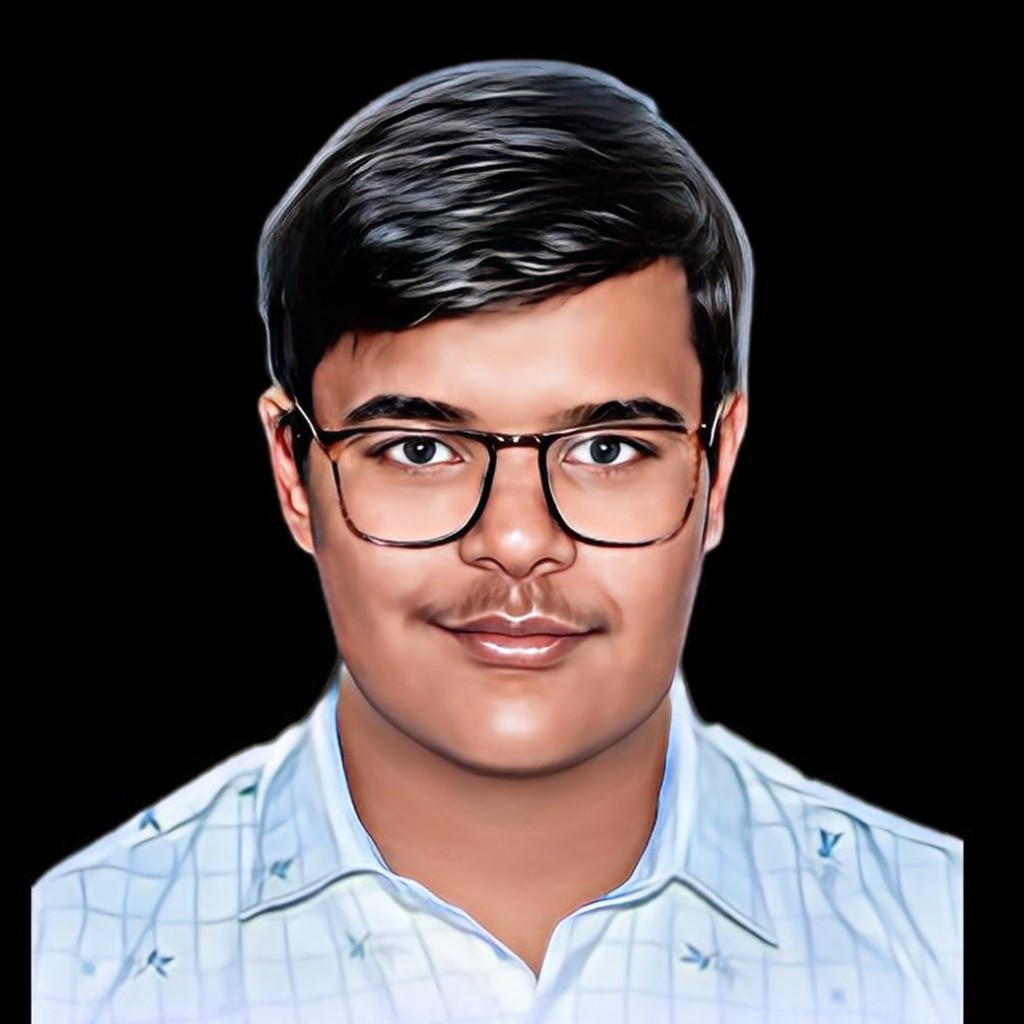
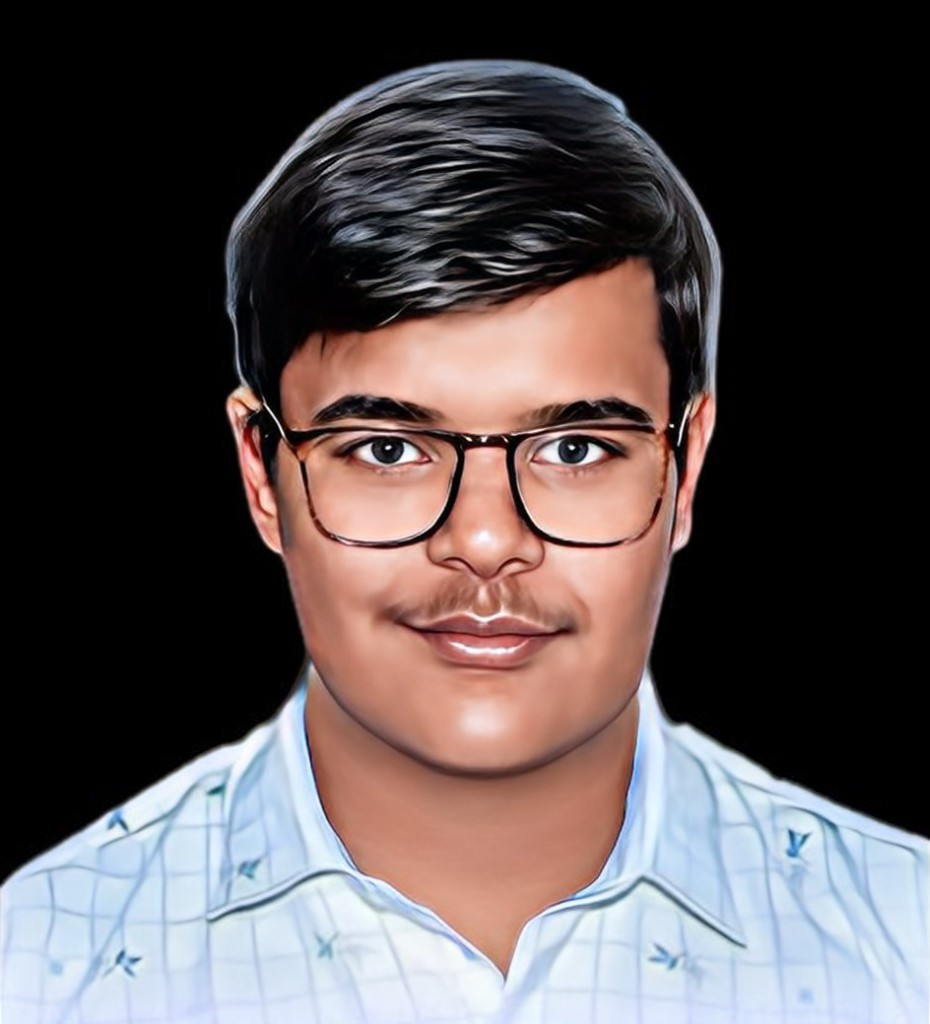
height issue fix

diff --git a/pages/about.vue b/pages/about.vue
@@ -18,16 +18,16 @@
       >
         <!-- Image Here -->
         <div
-          class="w-[350px] h-[450px] border flex items-center justify-center overflow-hidden rounded border-secondary-700"
+          class="w-[350px] h-auto border flex items-center justify-center overflow-hidden rounded-md border-secondary-700"
         >
           <img
-            src="https://source.unsplash.com/random/350x450?man"
+            src="../static/profile-1.jpg"
             alt="No Image Found"
-            class="object-center"
+            class="object-center opacity-50 hover:opacity-90 transition-all duration-700"
           />
         </div>
         <!-- Intro Here -->
-        <div class="md:w-1/2 max-w-md">
+        <div class="md:w-1/2 max-w-md text-center md:text-start">
           <p class="text-orange-400 text-2xl font-semibold">Poojan Bhalodiya</p>
           <p class="font-semibold">Backend Developer</p>
           <p class="mt-5">
@@ -41,7 +41,7 @@
             exploring and mastering the dynamic field of backend technologies.
           </p>
 
-          <div class="mt-5 flex gap-3">
+          <div class="mt-5 flex gap-3 items-center justify-center md:justify-start">
             <button
               @click="$router.push({ path: `/contact` })"
               class="border p-3 border-orange-400 rounded-md hover:ring hover:ring-clay-400 font-semibold"
@@ -60,7 +60,9 @@
       <!-- My Journey -->
       <div class="mt-16 md:mt-20">
         <h2 class="font-semibold text-2xl text-center">My Journey</h2>
-        <div class="flex mt-5 flex-wrap items-center justify-center gap-10">
+        <div
+          class="flex mt-5 flex-wrap items-center justify-center gap-5 md:gap-10"
+        >
           <div v-for="(item, i) in journey" :key="i" class="">
             <div class="flex rounded items-center justify-center gap-2">
               <div
@@ -84,7 +86,7 @@
       <!-- My Intrest -->
       <div class="mt-16 md:mt-20">
         <h2 class="font-semibold text-2xl text-center">My Interests</h2>
-        <div class="flex mt-5 flex-wrap justify-center gap-12">
+        <div class="flex mt-5 flex-wrap justify-center gap-6 md:gap-12">
           <div v-for="(item, i) in intrests" :key="i" class="">
             <div class="flex rounded items-center justify-center gap-2">
               <div

diff --git a/components/TopBar.vue b/components/TopBar.vue
@@ -1,5 +1,7 @@
 <template>
-  <div class="w-full border-b border-clay-400 flex md:hidden sticky top-0 bg-primary z-40">
+  <div
+    class="w-full border-b border-clay-400 flex md:hidden sticky top-0 bg-primary z-40"
+  >
     <button
       @click="openSidebar"
       class="flex items-center justify-center h-11 w-11 border-r border-clay-400"
@@ -7,10 +9,11 @@
       <Icon name="formkit:open" class="text-3xl" />
     </button>
 
-    <div class="flex items-center justify-center w-full">Page Title</div>
+    <div class="flex items-center justify-center w-full capitalize">{{ route.name }}</div>
   </div>
 </template>
 <script setup>
+const route = useRoute();
 const { $event } = useNuxtApp();
 function openSidebar() {
   $event("toggle-sidebar");

diff --git a/app.vue b/app.vue
@@ -2,9 +2,9 @@
   <div class="bg-secondary-950 text-white">
     <NuxtLoadingIndicator :height="2" :duration="1000" />
     <NuxtLayout>
-      <div class="main-section h-screen overflow-auto">
+      <div class="h-screen overflow-hidden flex flex-col">
         <TopBar />
-        <NuxtPage />
+        <NuxtPage class="overflow-y-auto" />
       </div>
     </NuxtLayout>
   </div>
@@ -12,14 +12,13 @@
 <script setup>
 import AOS from "aos";
 import "aos/dist/aos.css";
-
 onMounted(() => {
   AOS.init();
+  document.body.classList.add("overflow-hidden");
 });
-
 </script>
 <style>
-.page-enter-active, 
+.page-enter-active,
 .page-leave-active {
   transition: all 0.2s;
 }

diff --git a/components/sidebar/index.vue b/components/sidebar/index.vue
@@ -17,8 +17,9 @@
         <!-- Test App -->
         <span
           class="bg-gradient-to-r from-clay-400 to-white bg-clip-text text-transparent"
-          >Poojan Bhalodiya</span
         >
+          Poojan Bhalodiya
+        </span>
       </div>
       <div
         class="items-center h-full flex justify-center flex-col"
